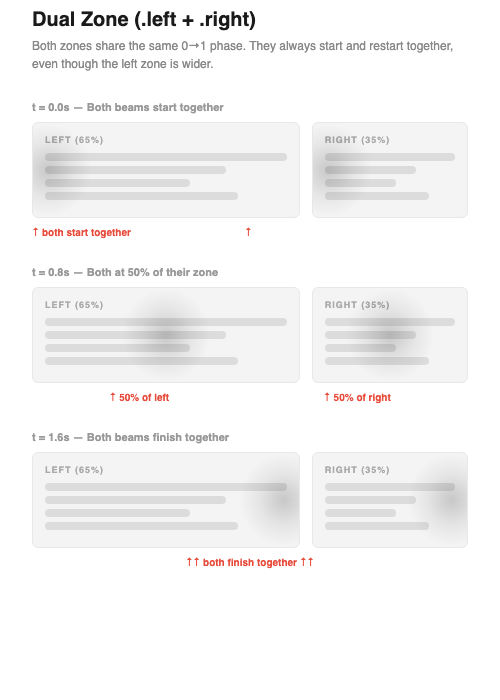
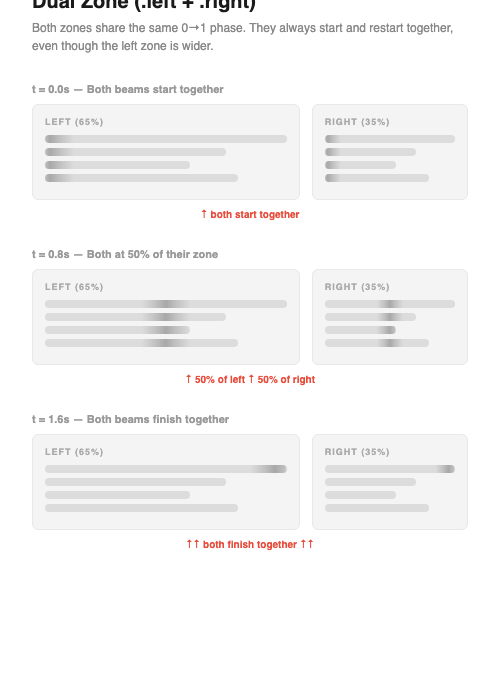
Fix diagrams: gradients render inside each bar, not as overlay
Each bar has its own gradient with the highlight position computed
relative to the bar's width, mapping to the same absolute screen X
across all bars.

diff --git a/diagrams.html b/diagrams.html
@@ -1,0 +1,183 @@
+<!DOCTYPE html>
+<html>
+<head>
+<meta charset="UTF-8">
+<style>
+  * { margin: 0; padding: 0; box-sizing: border-box; }
+  body { font-family: -apple-system, 'Inter', sans-serif; background: #fff; }
+  .diagram { width: 500px; padding: 32px; }
+  .title { font-size: 20px; font-weight: 700; color: #1a1a1a; margin-bottom: 6px; }
+  .subtitle { font-size: 12px; color: #888; margin-bottom: 28px; line-height: 1.5; }
+  .timestep { margin-bottom: 28px; }
+  .time-label { font-size: 11px; font-weight: 600; color: #999; margin-bottom: 8px; }
+  .bar-container {
+    background: #F4F4F4;
+    border: 1px solid #E8E8E8;
+    border-radius: 6px;
+    padding: 14px;
+  }
+  .bar {
+    height: 10px;
+    border-radius: 4px;
+    margin-bottom: 6px;
+  }
+  .bar:last-child { margin-bottom: 0; }
+  .annotation {
+    font-size: 10px;
+    font-weight: 600;
+    color: #E74C3C;
+    margin-top: 8px;
+  }
+  .dual-row { display: flex; gap: 12px; }
+  .zone-box {
+    background: #F4F4F4;
+    border: 1px solid #E8E8E8;
+    border-radius: 6px;
+    padding: 12px;
+  }
+  .zone-box.left { flex: 0.65; }
+  .zone-box.right { flex: 0.35; }
+  .zone-label {
+    font-size: 9px; font-weight: 700; color: #AAA;
+    letter-spacing: 1px; margin-bottom: 8px;
+  }
+  .zone-box .bar { height: 8px; margin-bottom: 5px; }
+</style>
+</head>
+<body>
+
+<div class="diagram" id="single-zone">
+  <div class="title">Single Zone (.full)</div>
+  <div class="subtitle">One beam sweeps left to right. All bars light up at the same screen X.</div>
+
+  <div class="timestep" id="s0"></div>
+  <div class="timestep" id="s1"></div>
+  <div class="timestep" id="s2"></div>
+</div>
+
+<div class="diagram" id="dual-zone">
+  <div class="title">Dual Zone (.left + .right)</div>
+  <div class="subtitle">Both zones share the same 0→1 phase. They always start and restart together, even though the left zone is wider.</div>
+
+  <div class="timestep" id="d0"></div>
+  <div class="timestep" id="d1"></div>
+  <div class="timestep" id="d2"></div>
+</div>
+
+<script>
+// Bar widths as fractions of container inner width
+const barWidths = [1.0, 0.78, 0.60, 0.70, 0.65];
+const dualLeftWidths = [1.0, 0.75, 0.60, 0.80];
+const dualRightWidths = [1.0, 0.70, 0.55, 0.80];
+
+// Generate gradient for a bar given:
+//   beamCenter: 0..1 position of beam center relative to container
+//   barWidth: fraction of container this bar occupies (all bars left-aligned)
+function barGradient(beamCenter, barWidth) {
+  const bandHalf = 0.10; // half-width of band in container fraction
+  // Convert container-relative beam position to bar-relative
+  const localCenter = beamCenter / barWidth;
+  const localHalf = bandHalf / barWidth;
+
+  const base = '#DCDCDC';
+  const hi = '#A8A8A8';
+  const mid = '#C0C0C0';
+
+  const s1 = Math.max(0, localCenter - localHalf);
+  const s2 = Math.max(0, localCenter - localHalf * 0.4);
+  const s3 = Math.min(1, localCenter);
+  const s4 = Math.min(1, localCenter + localHalf * 0.4);
+  const s5 = Math.min(1, localCenter + localHalf);
+
+  return `linear-gradient(to right, ${base} ${(s1*100).toFixed(1)}%, ${mid} ${(s2*100).toFixed(1)}%, ${hi} ${(s3*100).toFixed(1)}%, ${mid} ${(s4*100).toFixed(1)}%, ${base} ${(s5*100).toFixed(1)}%)`;
+}
+
+function buildSingleTimestep(id, label, beamPos, annotation, annotAlign) {
+  const el = document.getElementById(id);
+  el.innerHTML = `<div class="time-label">${label}</div>`;
+  const container = document.createElement('div');
+  container.className = 'bar-container';
+
+  barWidths.forEach(w => {
+    const bar = document.createElement('div');
+    bar.className = 'bar';
+    bar.style.width = (w * 100) + '%';
+    // Only show gradient if beam overlaps this bar
+    if (beamPos <= w + 0.12) {
+      bar.style.background = barGradient(beamPos, w);
+    } else {
+      bar.style.background = '#DCDCDC';
+    }
+    container.appendChild(bar);
+  });
+
+  el.appendChild(container);
+  const ann = document.createElement('div');
+  ann.className = 'annotation';
+  ann.style.textAlign = annotAlign || 'left';
+  ann.textContent = annotation;
+  el.appendChild(ann);
+}
+
+// Single zone
+buildSingleTimestep('s0', 't = 0.0s', 0.02, '↑ beam starts here', 'left');
+buildSingleTimestep('s1', 't = 0.8s', 0.50, '↑ all bars lit at same screen X', 'center');
+buildSingleTimestep('s2', 't = 1.6s', 0.95, '↑ beam exits right', 'right');
+
+// Dual zone
+function buildDualTimestep(id, label, beamFrac, annotation) {
+  const el = document.getElementById(id);
+  el.innerHTML = `<div class="time-label">${label}</div>`;
+  const row = document.createElement('div');
+  row.className = 'dual-row';
+
+  // Left zone
+  const leftBox = document.createElement('div');
+  leftBox.className = 'zone-box left';
+  leftBox.innerHTML = '<div class="zone-label">LEFT (65%)</div>';
+  dualLeftWidths.forEach(w => {
+    const bar = document.createElement('div');
+    bar.className = 'bar';
+    bar.style.width = (w * 100) + '%';
+    if (beamFrac <= w + 0.15) {
+      bar.style.background = barGradient(beamFrac, w);
+    } else {
+      bar.style.background = '#DCDCDC';
+    }
+    leftBox.appendChild(bar);
+  });
+
+  // Right zone
+  const rightBox = document.createElement('div');
+  rightBox.className = 'zone-box right';
+  rightBox.innerHTML = '<div class="zone-label">RIGHT (35%)</div>';
+  dualRightWidths.forEach(w => {
+    const bar = document.createElement('div');
+    bar.className = 'bar';
+    bar.style.width = (w * 100) + '%';
+    if (beamFrac <= w + 0.15) {
+      bar.style.background = barGradient(beamFrac, w);
+    } else {
+      bar.style.background = '#DCDCDC';
+    }
+    rightBox.appendChild(bar);
+  });
+
+  row.appendChild(leftBox);
+  row.appendChild(rightBox);
+  el.appendChild(row);
+
+  const ann = document.createElement('div');
+  ann.className = 'annotation';
+  ann.style.textAlign = 'center';
+  ann.textContent = annotation;
+  el.appendChild(ann);
+}
+
+buildDualTimestep('d0', 't = 0.0s — Both beams start together', 0.02, '↑ both start together');
+buildDualTimestep('d1', 't = 0.8s — Both at 50% of their zone', 0.50, '↑ 50% of left                    ↑ 50% of right');
+buildDualTimestep('d2', 't = 1.6s — Both beams finish together', 0.95, '↑↑ both finish together ↑↑');
+</script>
+
+</body>
+</html>
